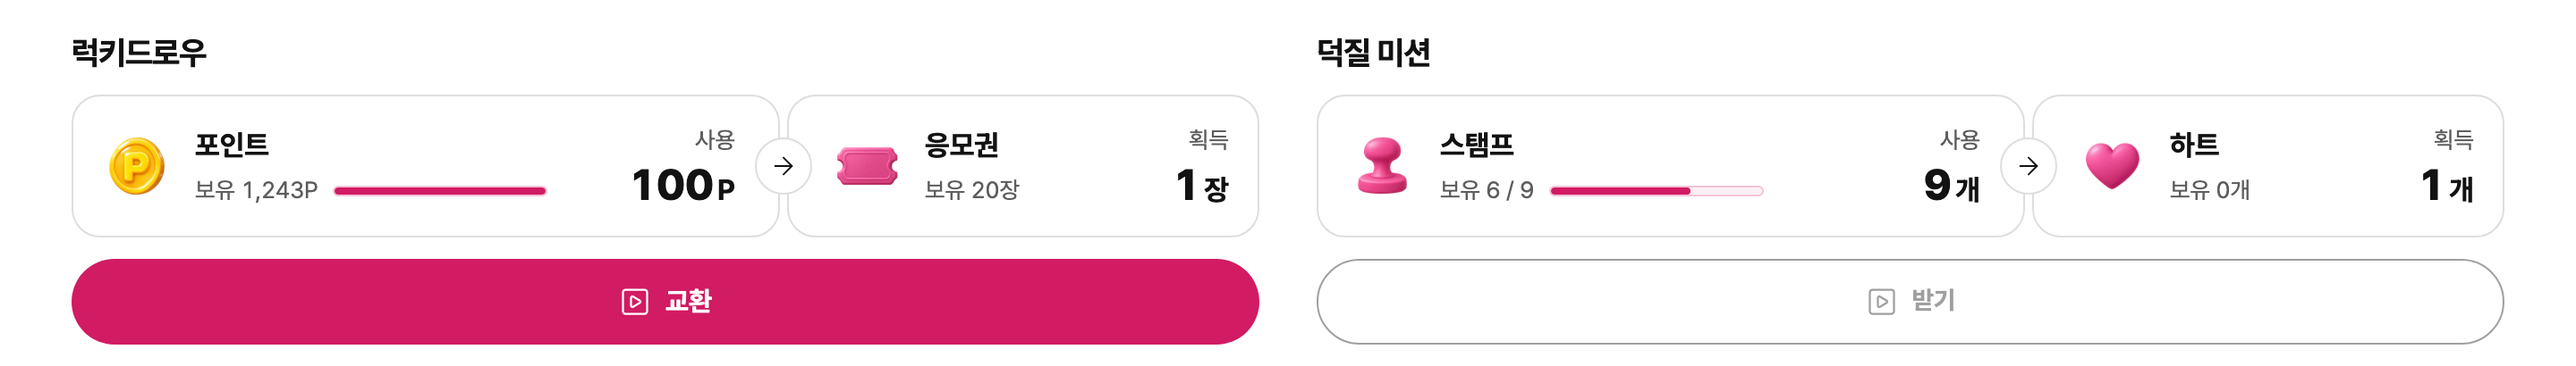
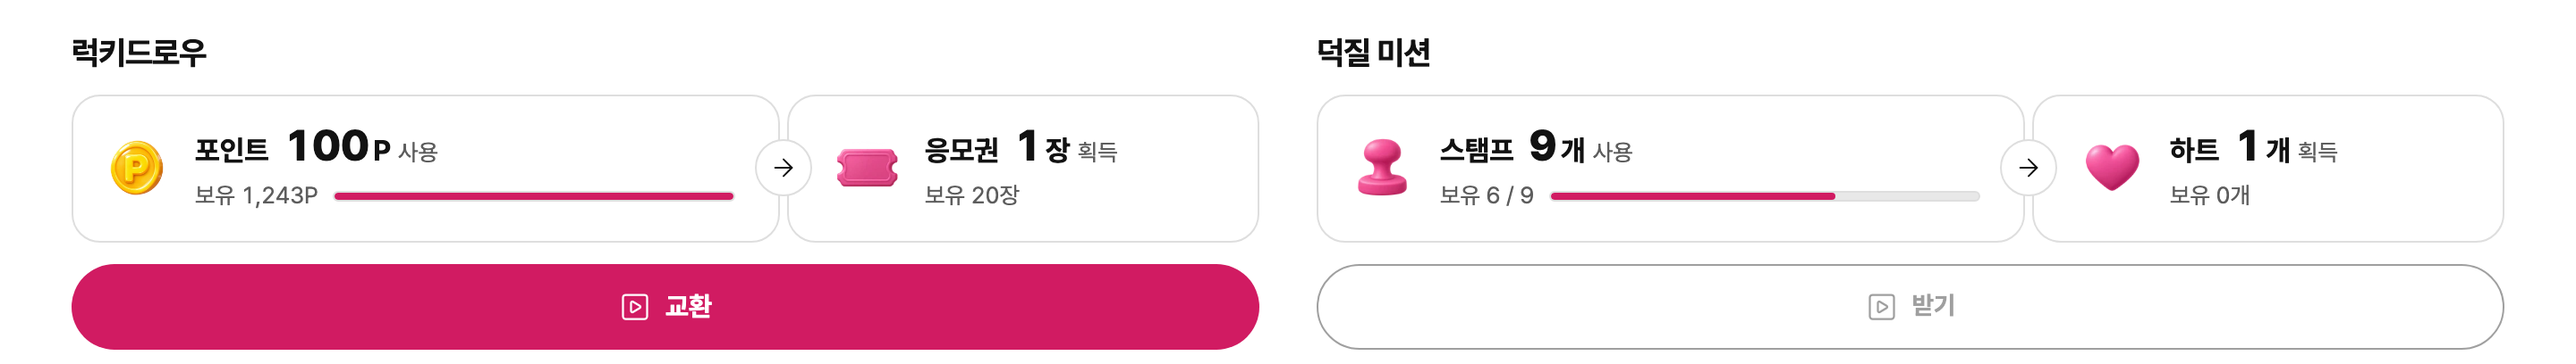
fix(dukjil): one-line 100P 사용 / 1장 획득, balance below, change highlight
감독 11/13 21:3x (rubric 84 → box-scope fixes):
- B1/B5: name, amount and 사용/획득 share the main line; 보유 N is the
  small line under it, with the gauge running to the cell's end, so no
  empty middle between the balance and the amount at 390.
- B4: a balance that changes from one number to another tints its cell
  once (opacity, 600ms, none under reduced motion; nothing on load).
- B2: coin drawn at 30 so its full disc matches the heart.
- B3: gauge track neutral; only the filled part is pink.
Release note text and local example captures follow the new layout.

diff --git a/apps/web/features/group-wallet/ui/stan-wallet.tsx b/apps/web/features/group-wallet/ui/stan-wallet.tsx
@@ -4,8 +4,8 @@ import Link from "../../../components/fan-ui/hover-prefetch-link";
 import type { Route } from "next";
 import { ArrowDown, SquarePlay } from "@/components/fan-ui/fan-icons";
 import { FanIcon } from "@/components/fan-ui/fan-icon";
-import type { CSSProperties } from "react";
-import { useId, useState, useSyncExternalStore, type ReactNode } from "react";
+import type { AnimationEvent, CSSProperties } from "react";
+import { useEffect, useId, useRef, useState, useSyncExternalStore, type ReactNode } from "react";
 import { BottomSheet, Dialog } from "@/components/ui/overlay/accessible-overlay";
 import { useFanWide } from "@/components/fan-ui/fan-dialog";
 import { FanAction } from "@/components/fan-ui/fan-action";
@@ -37,6 +37,19 @@ function Value({ locale, slot, unit }: { locale: AppLocale; slot: StanSlot; unit
   return <FanNumber size="lg" value={slot} countUp locale={locale} unit={unit} className={styles.number} />;
 }
 
+/** True once a balance moves from one number to another (an exchange, a claim), until the cell's highlight ends. Loading → number never flashes. */
+function useBalanceFlash(slot: StanSlot): [boolean, (event: AnimationEvent) => void] {
+  const [flash, setFlash] = useState(false);
+  const previous = useRef(slot);
+  useEffect(() => {
+    const before = previous.current;
+    previous.current = slot;
+    if (typeof before === "number" && typeof slot === "number" && before !== slot) setFlash(true);
+  }, [slot]);
+  // Only the cell's own highlight ends it, not an animation inside the cell (a skeleton, a number pulse).
+  return [flash, (event) => { if (event.target === event.currentTarget) setFlash(false); }];
+}
+
 /** The ad unit comes from a meta tag in the browser; the server render never has it, so the buttons start disabled. */
 const noSubscribe = () => () => {};
 function useRewardedAdReady() {
@@ -65,42 +78,43 @@ export function StanWallet({ locale, state, stamps, hearts, links, className, fa
   const ko = locale === "ko";
   /** 보유 N: the real balance (137P stays 137P past the cost), or the locked / loading mark in the same line. A balance that failed to load leaves the line empty (the section's own error and retry say so) — no dash. */
   const held = (slot: StanSlot, text: string) => typeof slot === "number" ? s("stanHeld", [text]) : slot === "loading" ? <FanSkeleton width={64} height={16} /> : slot === "locked" ? <FanLockedValue locale={locale} /> : null;
-  /** The amount carries a word, not a sign (대표 11/13 20:36: −100P read as a loss): 사용 over what I give, 획득 over what I get. */
+  /** The amount carries a word, not a sign (대표 11/13 20:36: −100P read as a loss): 포인트 100P 사용 → 응모권 1장 획득. */
   const amount = (side: "spend" | "gain", value: number, unit: string) => <span className={styles.amount}>
-    <FanText role="meta" className={styles.amountLabel}>{s(side === "spend" ? "stanSpend" : "stanGain")}</FanText>
     <FanNumber size="lg" value={value} unit={unit || undefined} locale={locale} />
+    <FanText role="meta" className={styles.amountLabel}>{s(side === "spend" ? "stanSpend" : "stanGain")}</FanText>
   </span>;
-  type Side = { cell: string; kind: keyof typeof WALLET_ASSETS; name: string; held: ReactNode; amount: ReactNode; bar?: { value: number; max: number; text: string; label: string } };
+  type Side = { cell: string; kind: keyof typeof WALLET_ASSETS; name: string; held: ReactNode; amount: ReactNode; flash: [boolean, (event: AnimationEvent) => void]; bar?: { value: number; max: number; text: string; label: string } };
+  /** Main line: name + amount + 사용/획득. Under it, smaller, the balance (and the gauge toward the cost) — what I have never competes with what moves. */
   const body = (side: Side) => <>
     <RewardIcon kind={side.kind === "coin" ? "point" : side.kind} size={40} className={styles.cellAsset} />
-    <span className={styles.cellText}><FanText role="item" className={styles.cellName}>{side.name}</FanText><FanText role="meta" className={styles.cellHeld}><span className={styles.heldText}>{side.held}</span>{side.bar ? <span className={styles.bar} role="progressbar" aria-label={side.bar.label} aria-valuemin={0} aria-valuemax={side.bar.max} aria-valuenow={Math.min(side.bar.value, side.bar.max)} aria-valuetext={side.bar.text}>
+    <span className={styles.cellText}><span className={styles.cellMain}><FanText role="item" className={styles.cellName}>{side.name}</FanText>{side.amount}</span><FanText role="meta" className={styles.cellHeld}><span className={styles.heldText}>{side.held}</span>{side.bar ? <span className={styles.bar} role="progressbar" aria-label={side.bar.label} aria-valuemin={0} aria-valuemax={side.bar.max} aria-valuenow={Math.min(side.bar.value, side.bar.max)} aria-valuetext={side.bar.text}>
       <span className={styles.barFill} style={{ "--wallet-bar-fill": `${(side.bar.max > 0 ? Math.min(side.bar.value, side.bar.max) / side.bar.max : 0) * 100}%` } as CSSProperties} aria-hidden="true" />
     </span> : null}</FanText></span>
-    {side.amount}
   </>;
   /** One button per card, as wide as the cells. Both run behind the rewarded ad (the video icon says so); with no ad unit it is the gray 준비 중. */
   const action = (name: string, enabled: boolean, extra: { onClick: () => void } | { href: string } | null) => state.kind === "guest" ? state.action : <FanAction variant={enabled ? "primary" : "neutral"} className={styles.reward} {...(enabled && extra ? extra : { disabled: true })} leadingIcon={<FanIcon icon={SquarePlay} size={20} />}>{adReady || enabled ? name : s("stanPreparing")}</FanAction>;
   const swap = (column: "tickets" | "hearts", from: Side, to: Side, href: string, button: ReactNode) => <div className={styles.swap} data-column={column}>
     <div className={styles.cells}>
-      <div className={styles.cell} data-cell={from.cell} data-side="from">{body(from)}</div>
+      <div className={styles.cell} data-cell={from.cell} data-side="from" data-changed={from.flash[0] || undefined} onAnimationEnd={from.flash[1]}>{body(from)}</div>
       <span className={styles.joint} aria-hidden="true"><FanIcon icon={ArrowDown} size={16} /></span>
-      <Link className={styles.cell} data-cell={to.cell} data-side="to" href={href as Route}>{body(to)}</Link>
+      <Link className={styles.cell} data-cell={to.cell} data-side="to" data-changed={to.flash[0] || undefined} onAnimationEnd={to.flash[1]} href={href as Route}>{body(to)}</Link>
     </div>
     {button}
   </div>;
+  const flashes = { points: useBalanceFlash(points), tickets: useBalanceFlash(tickets), stamps: useBalanceFlash(stamps), hearts: useBalanceFlash(hearts) };
   const show = (name: "tickets" | "hearts") => !part || part === name;
   const pointValue = ready ? state.points : 0;
   return <section className={[styles.wallet, className].filter(Boolean).join(" ")} id={part ? `wallet-${part}` : "wallet"} aria-label={part === "tickets" ? `${w.points} → ${w.tickets}` : part === "hearts" ? `${s("stanFlowStamps")} → ${s("stanFlowHearts")}` : s("stanWalletFlows")} data-wallet-card="stan" data-wallet-part={part}>
     {show("tickets") ? swap("tickets",
-      { cell: "points", kind: "coin", name: w.points, held: held(points, typeof points === "number" ? `${n(points)}P` : ""), amount: amount("spend", pointCost, "P"),
+      { cell: "points", flash: flashes.points, kind: "coin", name: w.points, held: held(points, typeof points === "number" ? `${n(points)}P` : ""), amount: amount("spend", pointCost, "P"),
         bar: typeof points === "number" ? { value: pointValue, max: pointCost, text: `${n(pointValue)} / ${n(pointCost)}P`, label: s("walletNextTicket", [pointCost]) } : undefined },
-      { cell: "tickets", kind: "ticket", name: w.tickets, held: held(tickets, typeof tickets === "number" ? `${n(tickets)}${ko ? "장" : ""}` : ""), amount: amount("gain", 1, ko ? "장" : "") },
+      { cell: "tickets", flash: flashes.tickets, kind: "ticket", name: w.tickets, held: held(tickets, typeof tickets === "number" ? `${n(tickets)}${ko ? "장" : ""}` : ""), amount: amount("gain", 1, ko ? "장" : "") },
       `/my/raffles?locale=${locale}`,
       action(ko ? "교환" : w.exchange, ready && (Boolean(pendingRequest.pending) || (affordable && adReady)), { onClick: () => setOpen(true) })) : null}
     {show("hearts") ? favoritePicker ? <div className={`${styles.swap} ${styles.favoritePicker}`} data-cell="favorite-picker">{favoritePicker}</div> : swap("hearts",
-      { cell: "stamps", kind: "stamp", name: s("stanFlowStamps"), held: held(stamps, `${pageStamps} / ${STAMPS_PER_HEART}`), amount: amount("spend", STAMPS_PER_HEART, ko ? "개" : ""),
+      { cell: "stamps", flash: flashes.stamps, kind: "stamp", name: s("stanFlowStamps"), held: held(stamps, `${pageStamps} / ${STAMPS_PER_HEART}`), amount: amount("spend", STAMPS_PER_HEART, ko ? "개" : ""),
         bar: typeof stamps === "number" ? { value: pageStamps, max: STAMPS_PER_HEART, text: `${pageStamps} / ${STAMPS_PER_HEART}`, label: s("stanFlowStamps") } : undefined },
-      { cell: "hearts", kind: "heart", name: s("stanFlowHearts"), held: held(hearts, typeof hearts === "number" ? `${n(hearts)}${ko ? "개" : ""}` : ""), amount: amount("gain", 1, ko ? "개" : "") },
+      { cell: "hearts", flash: flashes.hearts, kind: "heart", name: s("stanFlowHearts"), held: held(hearts, typeof hearts === "number" ? `${n(hearts)}${ko ? "개" : ""}` : ""), amount: amount("gain", 1, ko ? "개" : "") },
       links.hearts,
       action(s("stanClaim"), claimable, links.claim ? { href: links.claim } : null)) : null}
     {state.kind === "failed" && state.retry ? <FanAction onClick={state.retry}>{w.retry}</FanAction> : null}

diff --git a/apps/web/features/group-wallet/ui/stan-wallet.module.css b/apps/web/features/group-wallet/ui/stan-wallet.module.css
@@ -10,25 +10,32 @@
 .swap { display:grid; gap:var(--space-3); min-width:0; }
 .swap + .swap { margin-block-start:var(--space-3); }
 .cells { position:relative; display:grid; gap:var(--space-1); min-width:0; }
-.cell { display:grid; grid-template-columns:auto minmax(0,1fr) auto; grid-template-areas:"asset text amount"; align-items:center; column-gap:var(--space-3); position:relative; min-width:0; min-block-size:76px; box-sizing:border-box; padding:var(--space-4); border:1px solid var(--color-line); border-radius:var(--radius-card); background:var(--color-surface); color:var(--color-ink); text-decoration:none; }
+.cell { display:grid; grid-template-columns:auto minmax(0,1fr); grid-template-areas:"asset text"; align-items:center; column-gap:var(--space-3); position:relative; isolation:isolate; min-width:0; min-block-size:76px; box-sizing:border-box; padding:var(--space-4); border:1px solid var(--color-line); border-radius:var(--radius-card); background:var(--color-surface); color:var(--color-ink); text-decoration:none; }
 .cell:focus-visible { outline:2px solid var(--color-focus); outline-offset:2px; }
 .cellAsset { grid-area:asset; display:block; flex:none; width:40px; height:40px; object-fit:contain; }
 /* 대표 11/13 20:36 "아이콘 크기가 서로 다릅니다": the four arts fill their frames differently (coin 87×90%, ticket 68×42%,
-   stamp 49×57%, heart 57×50% of the image, alpha bounding box). Each is scaled to one visible size in the 40 box: coin 32, ticket 34×21
-   (wide and flat), stamp 27×32, heart 30×26 (its solid pink reads heavier than the coin's ring at the same size). */
-.cellAsset[data-reward-kind="point"] { transform:scale(.89); }
+   stamp 49×57%, heart 57×50% of the image, alpha bounding box). Each is scaled to one visible size in the 40 box: coin 30, ticket 34×21
+   (wide and flat), stamp 27×32, heart 30×26. The coin's full disc and yellow gloss read heavier than the heart at the same width (감독 21:3x B2). */
+.cellAsset[data-reward-kind="point"] { transform:scale(.84); }
 .cellAsset[data-reward-kind="ticket"] { transform:scale(1.25); }
 .cellAsset[data-reward-kind="stamp"] { transform:scale(1.4); }
 .cellAsset[data-reward-kind="heart"] { transform:scale(1.3); }
 .cellText { grid-area:text; display:grid; gap:var(--space-1); min-width:0; }
-.cellName { overflow:hidden; white-space:nowrap; text-overflow:ellipsis; }
+/* 감독 21:3x B1·B5: name, amount and 사용/획득 on one line, the balance smaller under it — no empty middle between 보유 and the amount. */
+.cellMain { display:flex; align-items:baseline; gap:var(--space-2); min-width:0; }
+.cellName { flex:0 1 auto; min-width:0; overflow:hidden; white-space:nowrap; text-overflow:ellipsis; }
 .cellHeld { display:flex; align-items:center; gap:var(--space-2); min-width:0; min-block-size:18px; }
 .heldText { display:flex; align-items:center; min-width:0; overflow:hidden; white-space:nowrap; text-overflow:ellipsis; }
-/* 사용 / 획득 over the number, right-aligned like a swap's two amount fields; both numbers in ink (the word says which way). */
-.amount { grid-area:amount; display:grid; justify-items:end; gap:var(--space-1); }
+/* 100P 사용 · 1장 획득: the word says which way (both numbers in ink), as a swap's 매도/매수 labels do. */
+.amount { display:inline-flex; flex:none; align-items:baseline; gap:var(--space-1); }
 .amountLabel { color:var(--color-muted); }
+/* 감독 21:3x B4: a balance that just changed (exchange, claim) tints its cell once and fades — opacity only, nothing on load. */
+.cell::after { content:""; position:absolute; inset:0; z-index:-1; border-radius:inherit; background:var(--color-accent-soft); opacity:0; pointer-events:none; }
+.cell[data-changed]::after { animation:wallet-balance-changed var(--motion-reward) var(--motion-easing) 1; }
+@keyframes wallet-balance-changed { from { opacity:1; } to { opacity:0; } }
 .joint { position:absolute; inset-block-start:50%; inset-inline-start:50%; z-index:1; display:grid; place-items:center; width:32px; height:32px; box-sizing:border-box; border:1px solid var(--color-line); border-radius:50%; background:var(--color-surface); color:var(--color-ink); transform:translate(-50%,-50%); pointer-events:none; }
-.bar { position:relative; flex:1 1 auto; min-inline-size:40px; max-inline-size:120px; display:block; box-sizing:border-box; height:6px; border:1px solid var(--color-accent-line); border-radius:var(--radius-pill); background:var(--color-accent-soft); overflow:hidden; }
+/* The track is neutral so only the filled part is pink (감독 21:3x B3: a pink track sat next to the pink heart). It runs to the cell's end. */
+.bar { position:relative; flex:1 1 auto; min-inline-size:40px; display:block; box-sizing:border-box; height:6px; border:1px solid var(--color-line); border-radius:var(--radius-pill); background:var(--color-line-subtle); overflow:hidden; }
 .barFill { position:absolute; inset-block:0; inset-inline-start:0; inline-size:var(--wallet-bar-fill); border-radius:inherit; background:var(--color-accent); transition:inline-size var(--motion-slow) var(--motion-easing); }
 /* `.swap .reward` outranks FanAction's one-class `.primary` (width min(100%,320)): the converter's button spans the cells (벤치마크). */
 .swap .reward { inline-size:100%; max-inline-size:none; white-space:nowrap; }
@@ -59,7 +66,7 @@
 .favoritePicker { justify-items:center; align-content:center; }
 .swap.favoritePicker { grid-template-columns:minmax(0,1fr); padding:var(--space-3); border:1px solid var(--color-line); border-radius:var(--radius-card); background:var(--color-surface); }
 @media (hover:hover) and (pointer:fine) { .guide:hover { color:var(--color-ink); background:var(--color-accent-soft); } }
-@media (prefers-reduced-motion:reduce) { .barFill { transition:none; } }
+@media (prefers-reduced-motion:reduce) { .barFill { transition:none; } .cell[data-changed]::after { animation:none; } }
 .backdrop { position:fixed; inset:0; z-index:var(--z-dialog); display:flex; align-items:flex-end; justify-content:center; background:var(--color-backdrop); }
 .sheet { position:relative; box-sizing:border-box; width:100%; padding:var(--space-8) var(--space-4); padding-bottom:calc(var(--space-8) + env(safe-area-inset-bottom)); border:0; outline:1px solid var(--color-line); outline-offset:-1px; border-radius:var(--radius-card) var(--radius-card) 0 0; background:var(--color-surface); color:var(--color-ink); font-family:var(--font-sans); font-variant-numeric:tabular-nums; font-feature-settings:"tnum"; }
 .handle { position:absolute; top:var(--space-2); left:calc(50% - var(--space-5)); width:40px; height:4px; border-radius:var(--radius-pill); background:var(--color-accent-line); }

diff --git a/apps/web/features/group-wallet/ui/stan-wallet-balance.test.tsx b/apps/web/features/group-wallet/ui/stan-wallet-balance.test.tsx
@@ -1,0 +1,32 @@
+// @vitest-environment jsdom
+import { act, cleanup, render } from "@testing-library/react";
+import { afterEach, expect, it, vi } from "vitest";
+
+vi.mock("next/navigation", () => ({ useRouter: () => ({ push: vi.fn() }), usePathname: () => "/benefits", useSearchParams: () => new URLSearchParams() }));
+import { StanWallet } from "./stan-wallet";
+
+afterEach(cleanup);
+
+const ready = (points: number, tickets: number) => ({ kind: "ready" as const, points, tickets, pointCost: 100 });
+const cell = (container: HTMLElement, name: string) => container.querySelector(`[data-cell="${name}"]`) as HTMLElement;
+
+it("대표 11/13 20:36: the amounts read 100P 사용 and 1장 획득, with no minus or plus sign, and the balance sits on its own line", () => {
+  const { container } = render(<StanWallet locale="ko" part="tickets" state={ready(1243, 20)} stamps={6} hearts={0} links={{ hearts: "#" }} />);
+  expect(cell(container, "points").textContent).toBe("포인트100P사용보유 1,243P");
+  expect(cell(container, "tickets").textContent).toBe("응모권1장획득보유 20장");
+  expect(container.textContent).not.toMatch(/[−+]/);
+});
+
+it("감독 11/13 21:3x: a balance that changes highlights its cell once; loading → number and an unchanged balance do not", () => {
+  const props = { locale: "ko" as const, part: "tickets" as const, stamps: 6, hearts: 0, links: { hearts: "#" } };
+  const { container, rerender } = render(<StanWallet {...props} state={{ kind: "loading" }} />);
+  rerender(<StanWallet {...props} state={ready(1243, 20)} />);
+  expect(cell(container, "points").hasAttribute("data-changed")).toBe(false);
+  rerender(<StanWallet {...props} state={ready(1143, 21)} />);
+  expect(cell(container, "points").hasAttribute("data-changed")).toBe(true);
+  expect(cell(container, "tickets").hasAttribute("data-changed")).toBe(true);
+  // jsdom has no CSS animations, so React listens for the prefixed name; a real browser sends animationend.
+  act(() => { cell(container, "points").dispatchEvent(new Event("webkitAnimationEnd", { bubbles: true })); });
+  expect(cell(container, "points").hasAttribute("data-changed")).toBe(false);
+  expect(cell(container, "tickets").hasAttribute("data-changed")).toBe(true);
+});
